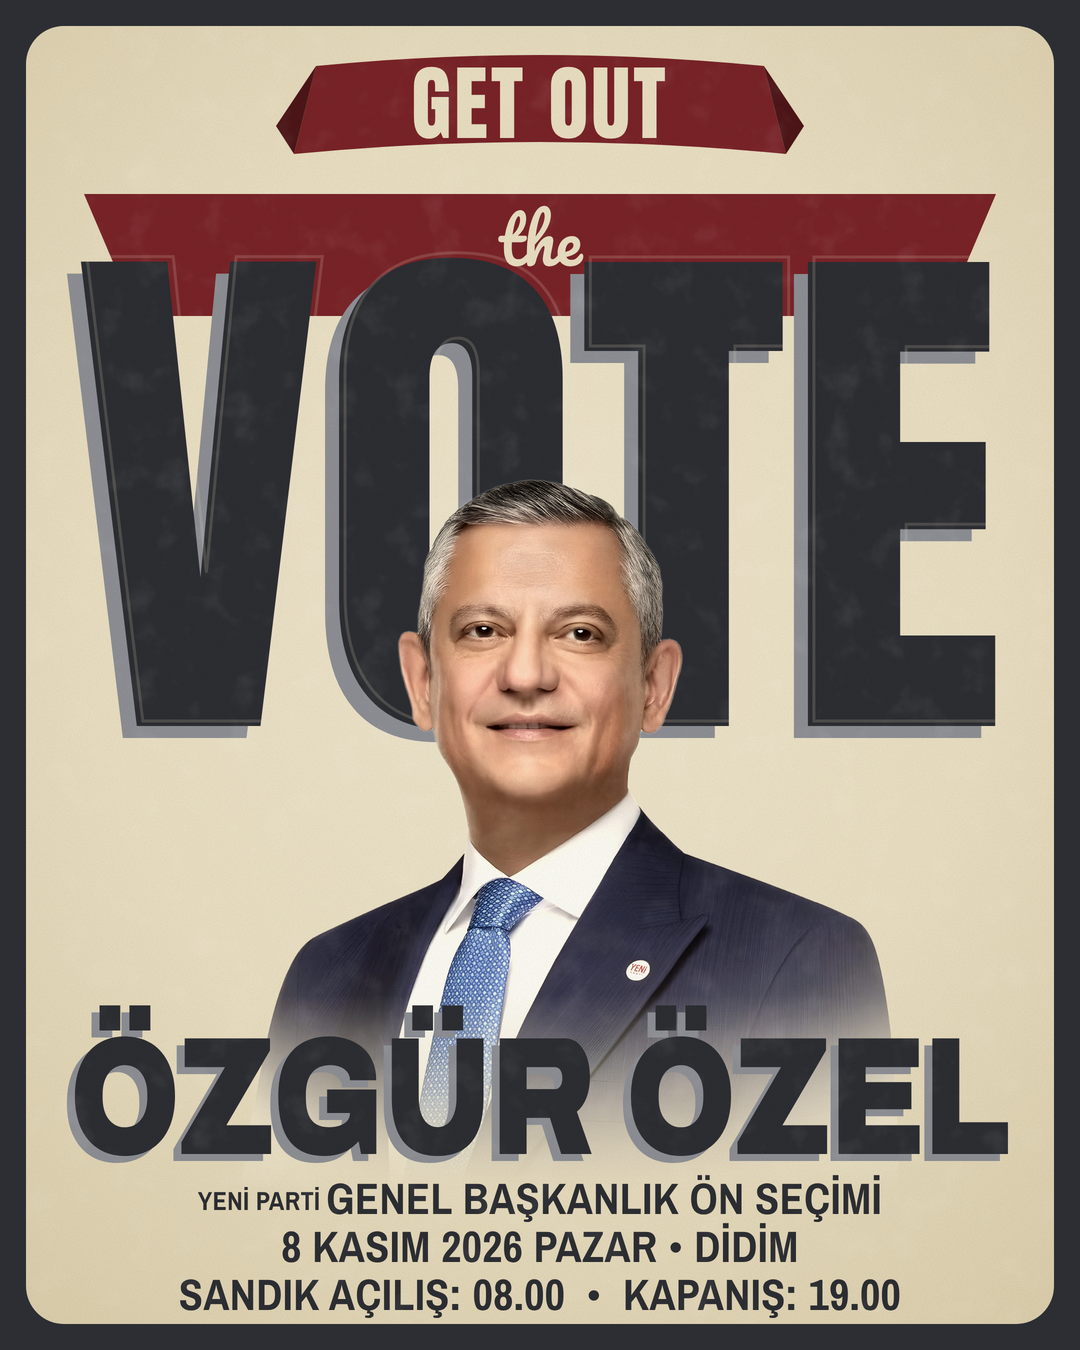
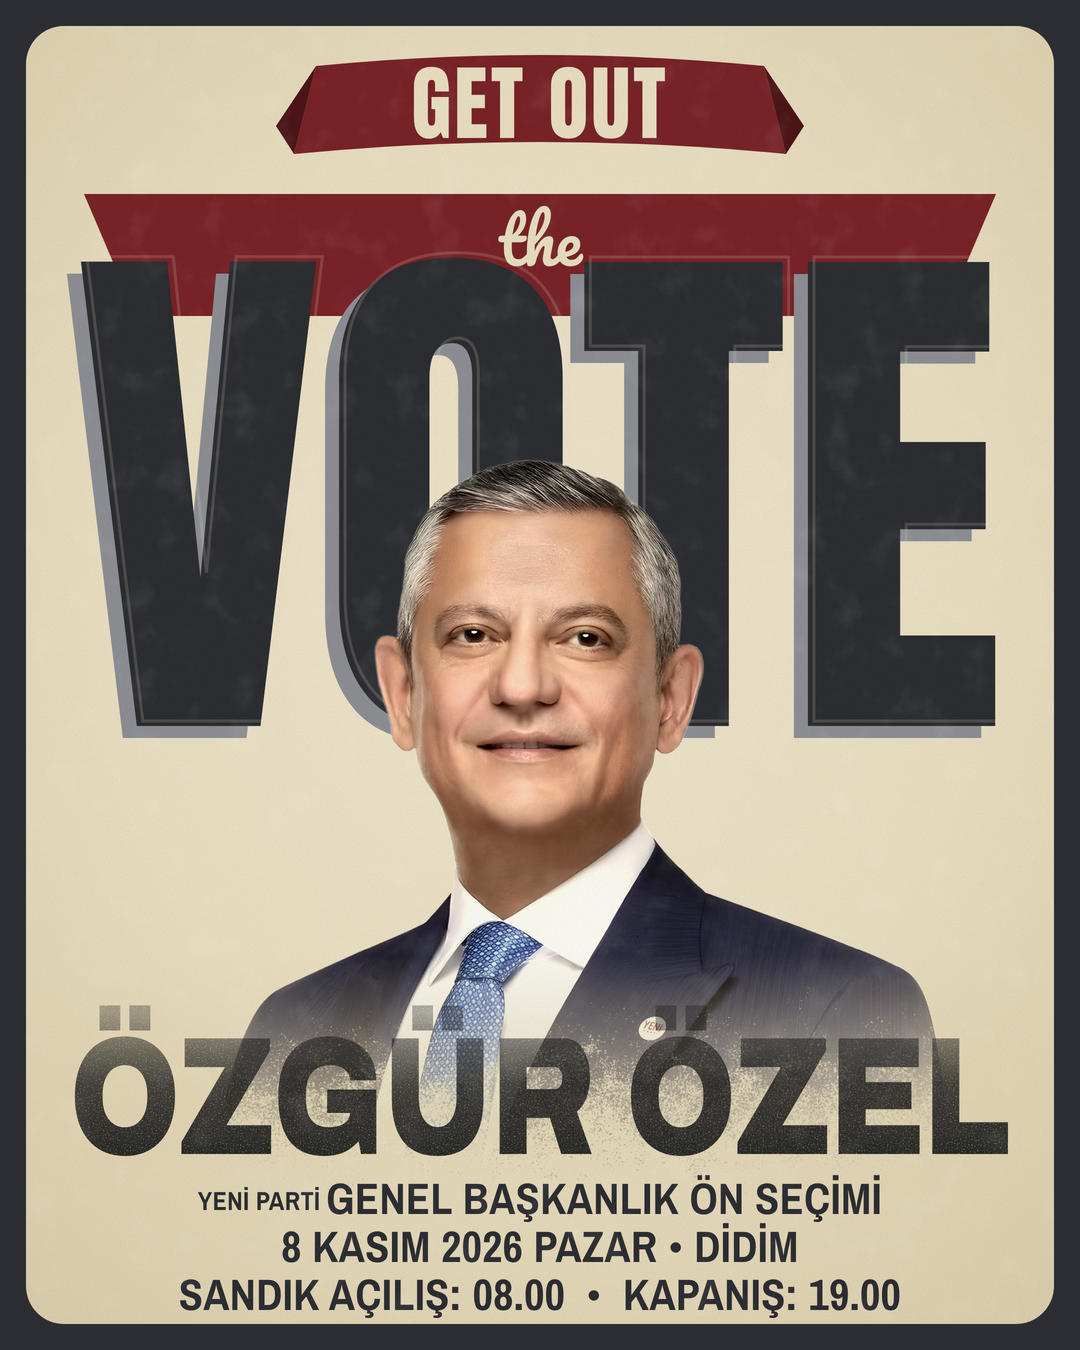
Retro afiş: referanstaki gibi grenli erime geçişi, isim fotoğrafın üstünde
Claude-Session: https://claude.ai/code/session_01SatttGbgBLoCnk9KGLypWv

Changed region(s): [[0.0611, 0.3422, 0.9167, 0.8711]]

diff --git a/tasarim/kisisel/retro-ozel/poster.html b/tasarim/kisisel/retro-ozel/poster.html
@@ -7,7 +7,9 @@
 html,body{margin:0;width:1080px;height:1350px;overflow:hidden;background:var(--a)}
 .panel{position:absolute;left:26px;top:26px;right:26px;bottom:26px;border-radius:38px;background:radial-gradient(ellipse 80% 70% at 50% 45%,#F1E9D2 0%,var(--k) 55%,#DDD1B0 100%);overflow:hidden}
 svg.l{position:absolute;left:0;top:0}
-.portre{position:absolute;left:40px;top:440px;width:950px;-webkit-mask:linear-gradient(180deg,#000 0,#000 70%,transparent 96%)}
+.portre{position:absolute;left:-36px;top:418px;width:1100px}
+.pus{position:absolute;left:0;right:0;top:930px;height:280px;background:linear-gradient(180deg,rgba(236,226,198,0) 0%,rgba(226,214,180,.55) 55%,rgba(236,226,198,0) 100%)}
+.isim{mix-blend-mode:multiply}
 .alt{position:absolute;left:0;right:0;text-align:center;font:44px/1 AR;color:var(--a);letter-spacing:.01em;white-space:nowrap}
 .alt small{font-size:26px;vertical-align:4px;margin-right:6px}
 .doku{position:absolute;inset:0;mix-blend-mode:multiply;opacity:.55}
@@ -29,10 +31,12 @@ svg.l{position:absolute;left:0;top:0}
   <text x="514" y="112" text-anchor="middle" font-family="AN" font-size="82" fill="var(--k)" letter-spacing="3">GET OUT</text>
   
  </svg>
- <img class="portre" src="ozel-kesik.png">
- <svg class="l" width="1028" height="1298" viewBox="0 0 1028 1298">
-  <text x="514" y="1128" text-anchor="middle" font-family="AW" font-size="168" font-weight="900" fill="var(--a3)" textLength="940" lengthAdjust="spacingAndGlyphs" transform="translate(-8,7)" style="font-stretch:125%">ÖZGÜR ÖZEL</text>
-  <text x="514" y="1128" text-anchor="middle" font-family="AW" font-size="168" font-weight="900" fill="var(--a)" textLength="940" lengthAdjust="spacingAndGlyphs" style="font-stretch:125%">ÖZGÜR ÖZEL</text>
+ <img class="portre" src="ozel-erime.png">
+ <div class="pus"></div>
+ <svg class="l isim" width="1028" height="1298" viewBox="0 0 1028 1298">
+  <defs><linearGradient id="ig" x1="0" y1="985" x2="0" y2="1130" gradientUnits="userSpaceOnUse"><stop offset="0" stop-color="#2C2E33" stop-opacity=".35"/><stop offset=".5" stop-color="#2C2E33" stop-opacity=".85"/><stop offset="1" stop-color="#2C2E33"/></linearGradient>
+  <filter id="kir"><feTurbulence type="fractalNoise" baseFrequency=".7" numOctaves="2" seed="2" result="t"/><feColorMatrix in="t" type="matrix" values="0 0 0 0 0 0 0 0 0 0 0 0 0 0 0 0 0 0 -1.6 1.9" result="m"/><feComposite in="SourceGraphic" in2="m" operator="in"/></filter></defs>
+  <text x="514" y="1128" text-anchor="middle" font-family="AW" font-size="168" font-weight="900" fill="url(#ig)" filter="url(#kir)" textLength="940" lengthAdjust="spacingAndGlyphs" style="font-stretch:125%">ÖZGÜR ÖZEL</text>
  </svg>
  <div class="alt" style="top:1150px"><small>YENİ PARTİ</small>GENEL BAŞKANLIK ÖN SEÇİMİ</div>
  <div class="alt" style="top:1198px">8 KASIM 2026 PAZAR • DİDİM</div>
